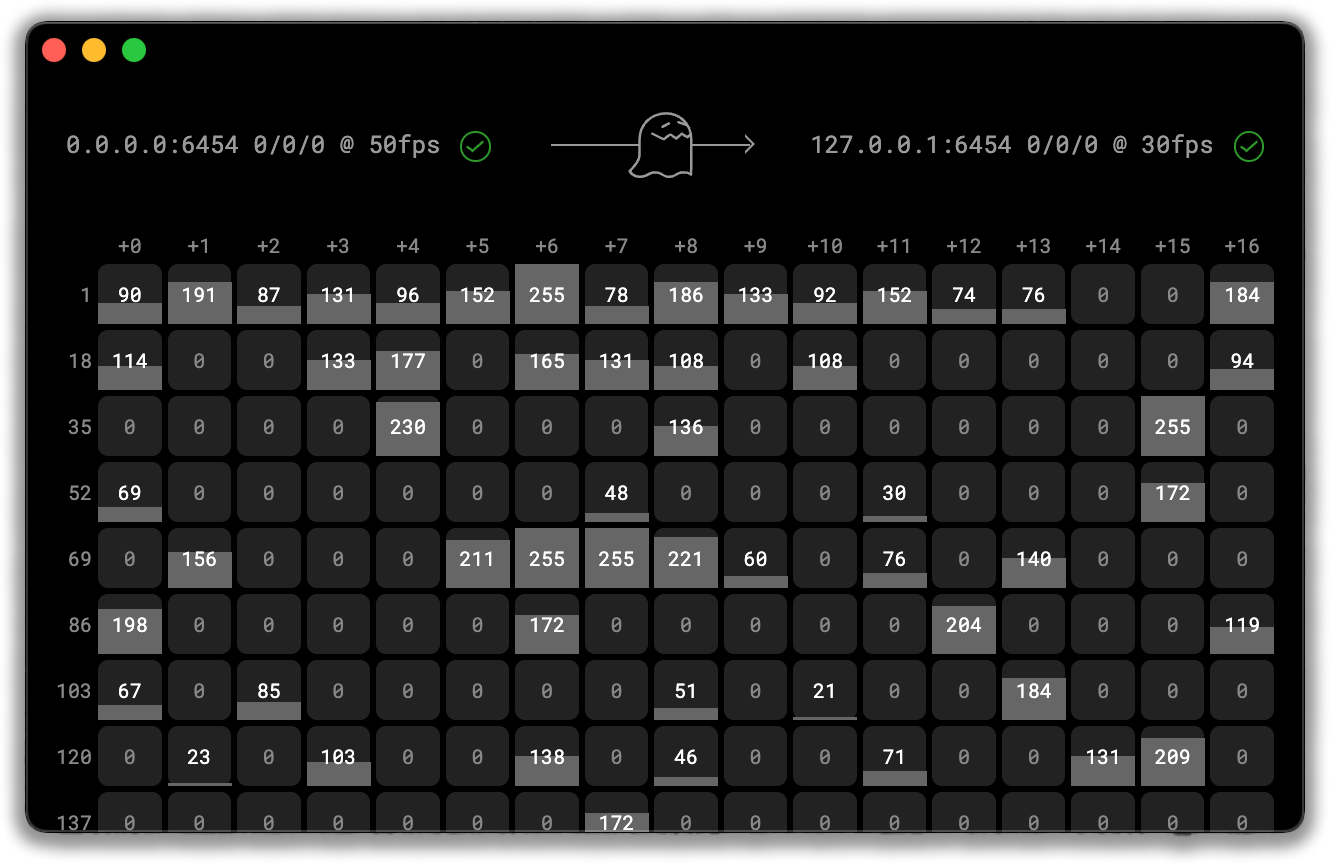
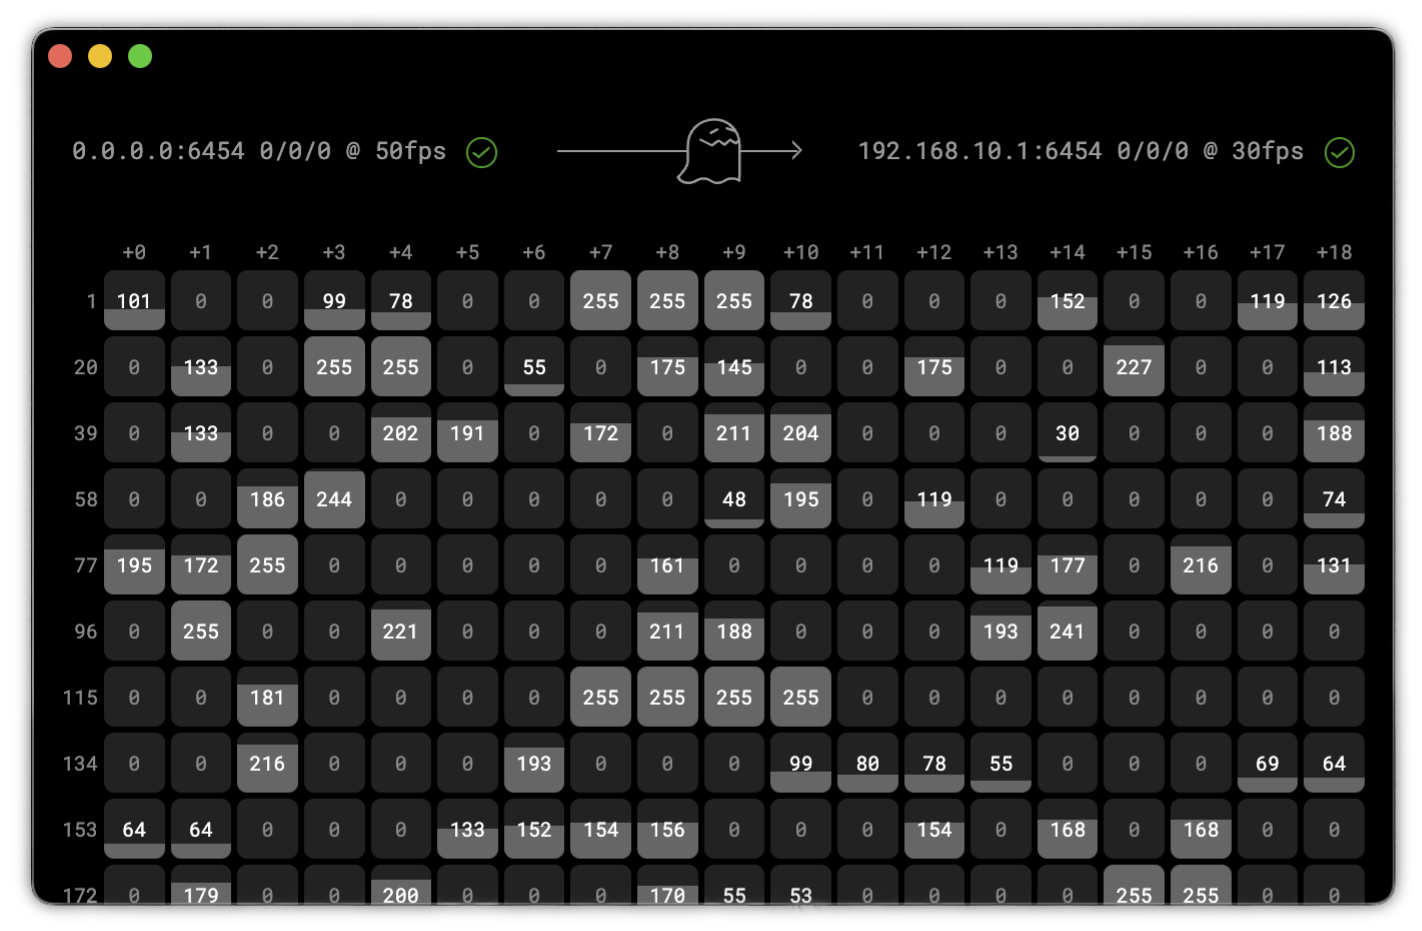
docs: Update OGP images

diff --git a/docs/.vitepress/config.ts b/docs/.vitepress/config.ts
@@ -1,12 +1,29 @@
 import { defineConfig } from "vitepress";
 
+const host = process.env.VITEPRESS_HOST || "https://example.com";
+
 // https://vitepress.dev/reference/site-config
 export default defineConfig({
+  lang: "en-US",
   title: "Obakesan",
   description: "A simple monitor or converter app for stage lighting system",
   base: process.env.VITEPRESS_BASE || "/",
   cleanUrls: true,
-  head: [["link", { rel: "icon", href: "/icon.png" }]],
+  head: [
+    ["link", { rel: "icon", href: "/icon.png" }],
+    ["meta", { property: "og:title", content: "Obakesan" }],
+    [
+      "meta",
+      {
+        property: "og:description",
+        content: "A simple monitor or converter app for stage lighting system",
+      },
+    ],
+    ["meta", { property: "og:type", content: "website" }],
+    ["meta", { property: "og:image", content: `${host}/ogp-en.png` }],
+    ["meta", { name: "twitter:card", content: "summary_large_image" }],
+    ["meta", { name: "twitter:site", content: host }],
+  ],
   themeConfig: {
     // https://vitepress.dev/reference/default-theme-config
     logo: {

diff --git a/docs/ja/config.ts b/docs/ja/config.ts
@@ -1,9 +1,24 @@
 import { defineConfig } from "vitepress";
 
+const host = process.env.VITEPRESS_HOST || "https://example.com";
+
 // https://vitepress.dev/reference/site-config
 export default defineConfig({
+  lang: "ja",
   title: "Obakesan",
   description: "制作に集中するための、DMX / Art-Net モニター & コンバーター",
+  head: [
+    ["meta", { property: "og:title", content: "Obakesan" }],
+    [
+      "meta",
+      {
+        property: "og:description",
+        content: "制作に集中するための、DMX / Art-Net モニター & コンバーター",
+      },
+    ],
+    ["meta", { property: "og:type", content: "website" }],
+    ["meta", { property: "og:image", content: `${host}/ogp-ja.png` }],
+  ],
   themeConfig: {
     // https://vitepress.dev/reference/default-theme-config
     nav: [

diff --git a/docs/.vitepress/theme/custom.css b/docs/.vitepress/theme/custom.css
@@ -7,6 +7,10 @@
 
 /* Show larger image in hero */
 .VPHero {
+  .container {
+    gap: 2rem;
+  }
+
   .image-src {
     max-width: unset;
     max-height: unset;

diff --git a/docs/ja/index.md b/docs/ja/index.md
@@ -1,10 +1,11 @@
 ---
 # https://vitepress.dev/reference/default-theme-home-page
 layout: home
+title: Obakesan - DMX / Art-Net Monitor & Converter for Creators
 
 hero:
   name: "Obakesan"
-  text: "制作に集中するための、DMX / Art-Net モニター & コンバーター"
+  text: "クリエイターのための、DMX / Art-Net モニター & コンバーター"
   tagline: "メディアアート・舞台システム開発のスタンドアロンツール"
   actions:
     - theme: brand

diff --git a/docs/index.md b/docs/index.md
@@ -1,6 +1,7 @@
 ---
 # https://vitepress.dev/reference/default-theme-home-page
 layout: home
+title: Obakesan - DMX / Art-Net Monitor & Converter for Creators
 
 hero:
   name: "Obakesan"
